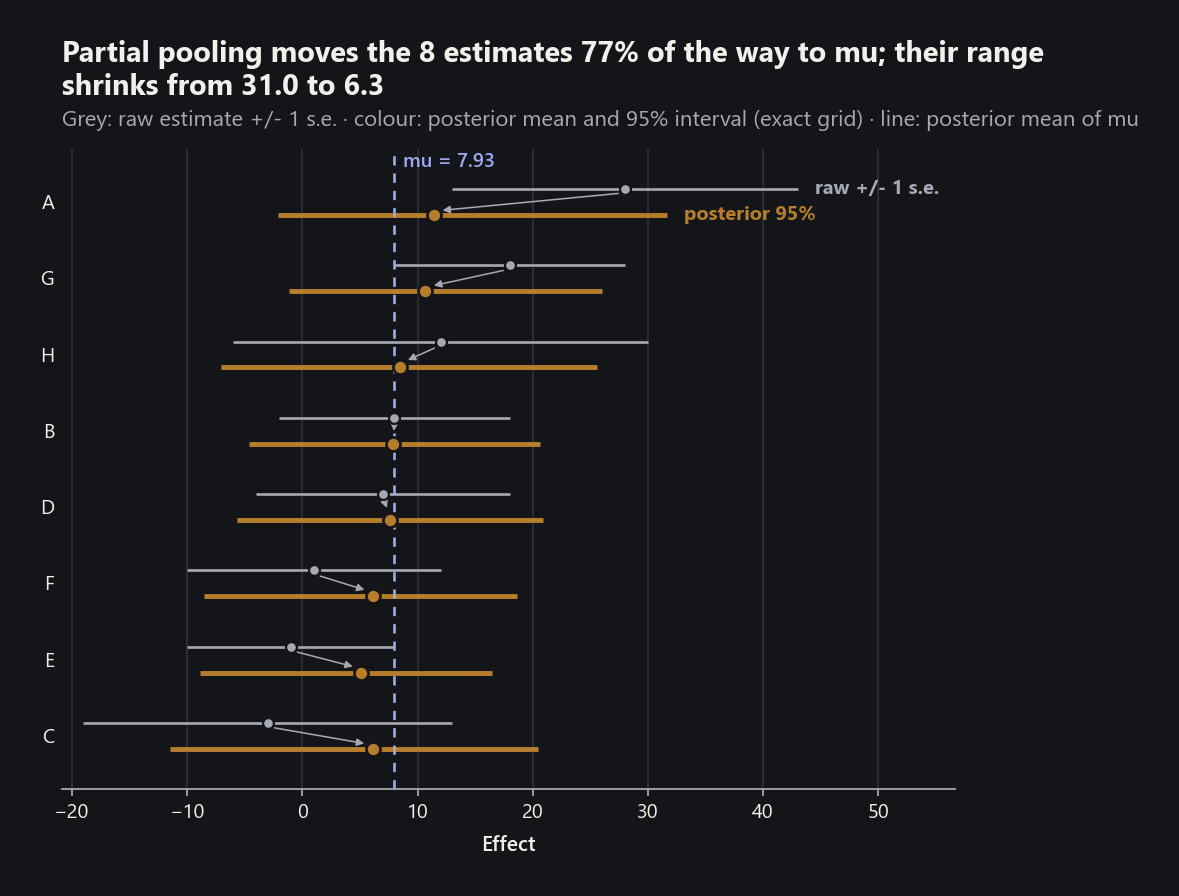
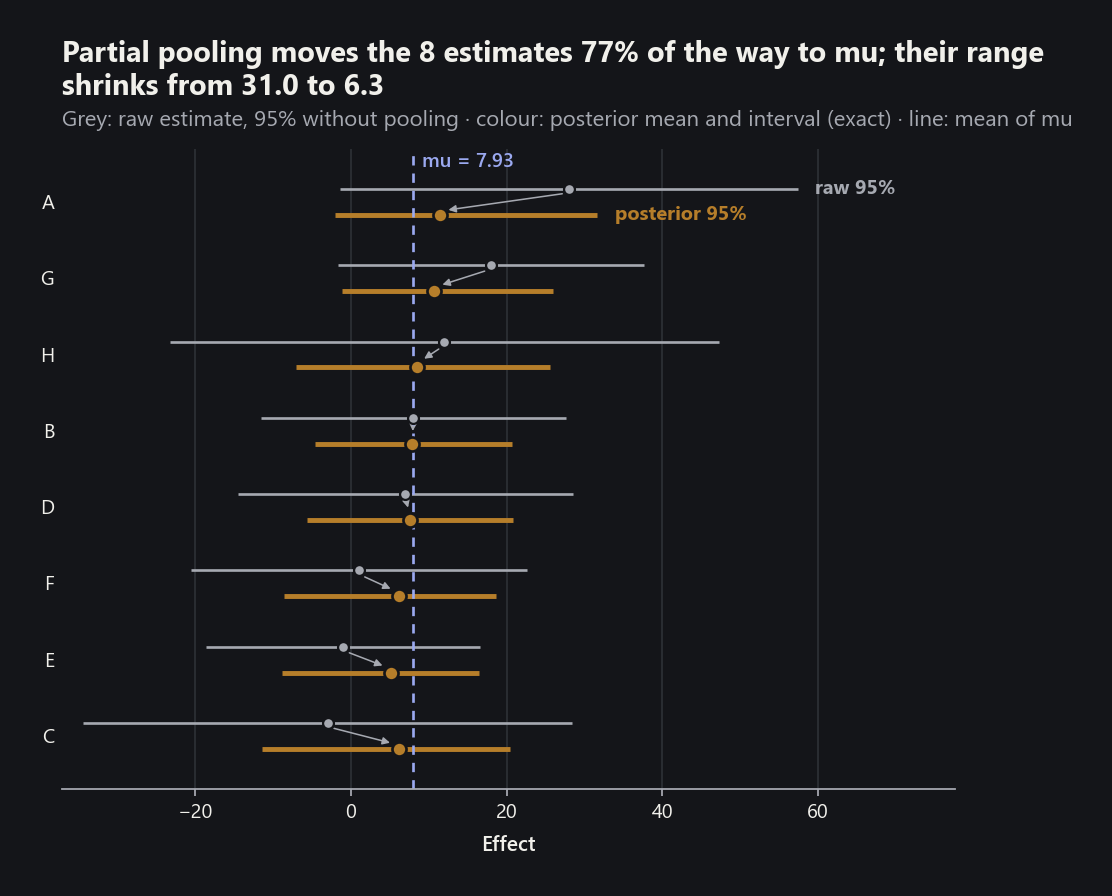
fix(visualization): compare equal-level intervals in the shrinkage plot
The raw estimate was drawn as y +- 1 s.e. next to the posterior 95%
interval, so pooling appeared to widen the intervals. Both rows now use
the requested level (y +- z s for the no-pooling interval).

diff --git a/src/probstat/visualization/hierarchical_plots.py b/src/probstat/visualization/hierarchical_plots.py
@@ -23,6 +23,7 @@ from probstat.inference import (
     PredictiveStatisticCheck,
     pit_uniformity,
 )
+from probstat.modeling import standard_normal_quantile
 
 from ._layout import wrapped_title_block
 from .calibration_plots import gaussian_mixture_interval
@@ -129,15 +130,17 @@ def plot_shrinkage(
 ) -> Any:
     """Plot raw group estimates against their partially pooled posteriors.
 
-    Each row is one group, sorted by its raw estimate: the raw ``y_j +- s_j``
-    is muted context above, the posterior mean and exact central interval of
-    ``theta_j`` are in the model hue below, and a thin arrow joins them. The
+    Each row is one group, sorted by its raw estimate: the no-pooling
+    interval ``y_j +- z s_j`` at the same level is muted context above, the
+    posterior mean and exact central interval of ``theta_j`` are in the model
+    hue below, and a thin arrow joins them. Both intervals share the level,
+    so their widths compare directly: pooling narrows each one. The
     posterior mean of ``mu`` is the accent reference line.
 
     Args:
         posterior: Output of :func:`probstat.inference.hierarchical_normal_posterior`.
         names: Group labels (default ``"group 1"``...).
-        level: Central probability of the posterior intervals.
+        level: Central probability of both intervals of every row.
         unit: Optional unit of the effects.
         ax: Optional axes.
 
@@ -156,9 +159,7 @@ def plot_shrinkage(
 
     """
     groups = posterior.groups
-    labels = (
-        [f"group {j + 1}" for j in range(groups)] if names is None else list(names)
-    )
+    labels = [f"group {j + 1}" for j in range(groups)] if names is None else list(names)
     if len(labels) != groups:
         raise ValueError("names must match the number of groups")
     if not 0.0 < level < 1.0:
@@ -167,7 +168,9 @@ def plot_shrinkage(
     limits = theta_intervals(posterior, level)
     mu, _ = posterior.mu_moments()
     shrink = posterior.expected_shrinkage()
-    ys, ss = posterior.estimates, posterior.standard_errors
+    z = standard_normal_quantile(0.5 + 0.5 * level)
+    ys = posterior.estimates
+    ss = tuple(z * s for s in posterior.standard_errors)
     order = sorted(range(groups), key=lambda j: (ys[j], j))
     axes = new_axes(ax, figsize=(7.2, 0.5 * groups + 2.2))
     palette = active_palette()
@@ -218,7 +221,7 @@ def plot_shrinkage(
     direct_labels(
         axes,
         [
-            (ys[top] + ss[top], groups - 1 + offset, "raw +/- 1 s.e.", palette.muted),
+            (ys[top] + ss[top], groups - 1 + offset, f"raw {level:.0%}", palette.muted),
             (
                 limits[top][1],
                 groups - 1 - offset,
@@ -236,8 +239,8 @@ def plot_shrinkage(
         axes,
         f"Partial pooling moves the {groups} estimates {average:.0%} of the way "
         f"to mu; their range shrinks from {raw_range:.1f} to {pooled_range:.1f}",
-        f"Grey: raw estimate +/- 1 s.e. · colour: posterior mean and {level:.0%} "
-        "interval (exact grid) · line: posterior mean of mu",
+        f"Grey: raw estimate, {level:.0%} without pooling · colour: posterior "
+        "mean and interval (exact) · line: mean of mu",
     )
     return axes
 
@@ -593,8 +596,7 @@ def plot_predictive_check(
         )
     else:
         title = (
-            f"The model reproduces the observed {check.name}: "
-            f"p = {check.p_value:.2f}"
+            f"The model reproduces the observed {check.name}: p = {check.p_value:.2f}"
         )
     title_block(axes, title, subtitle)
     return axes
